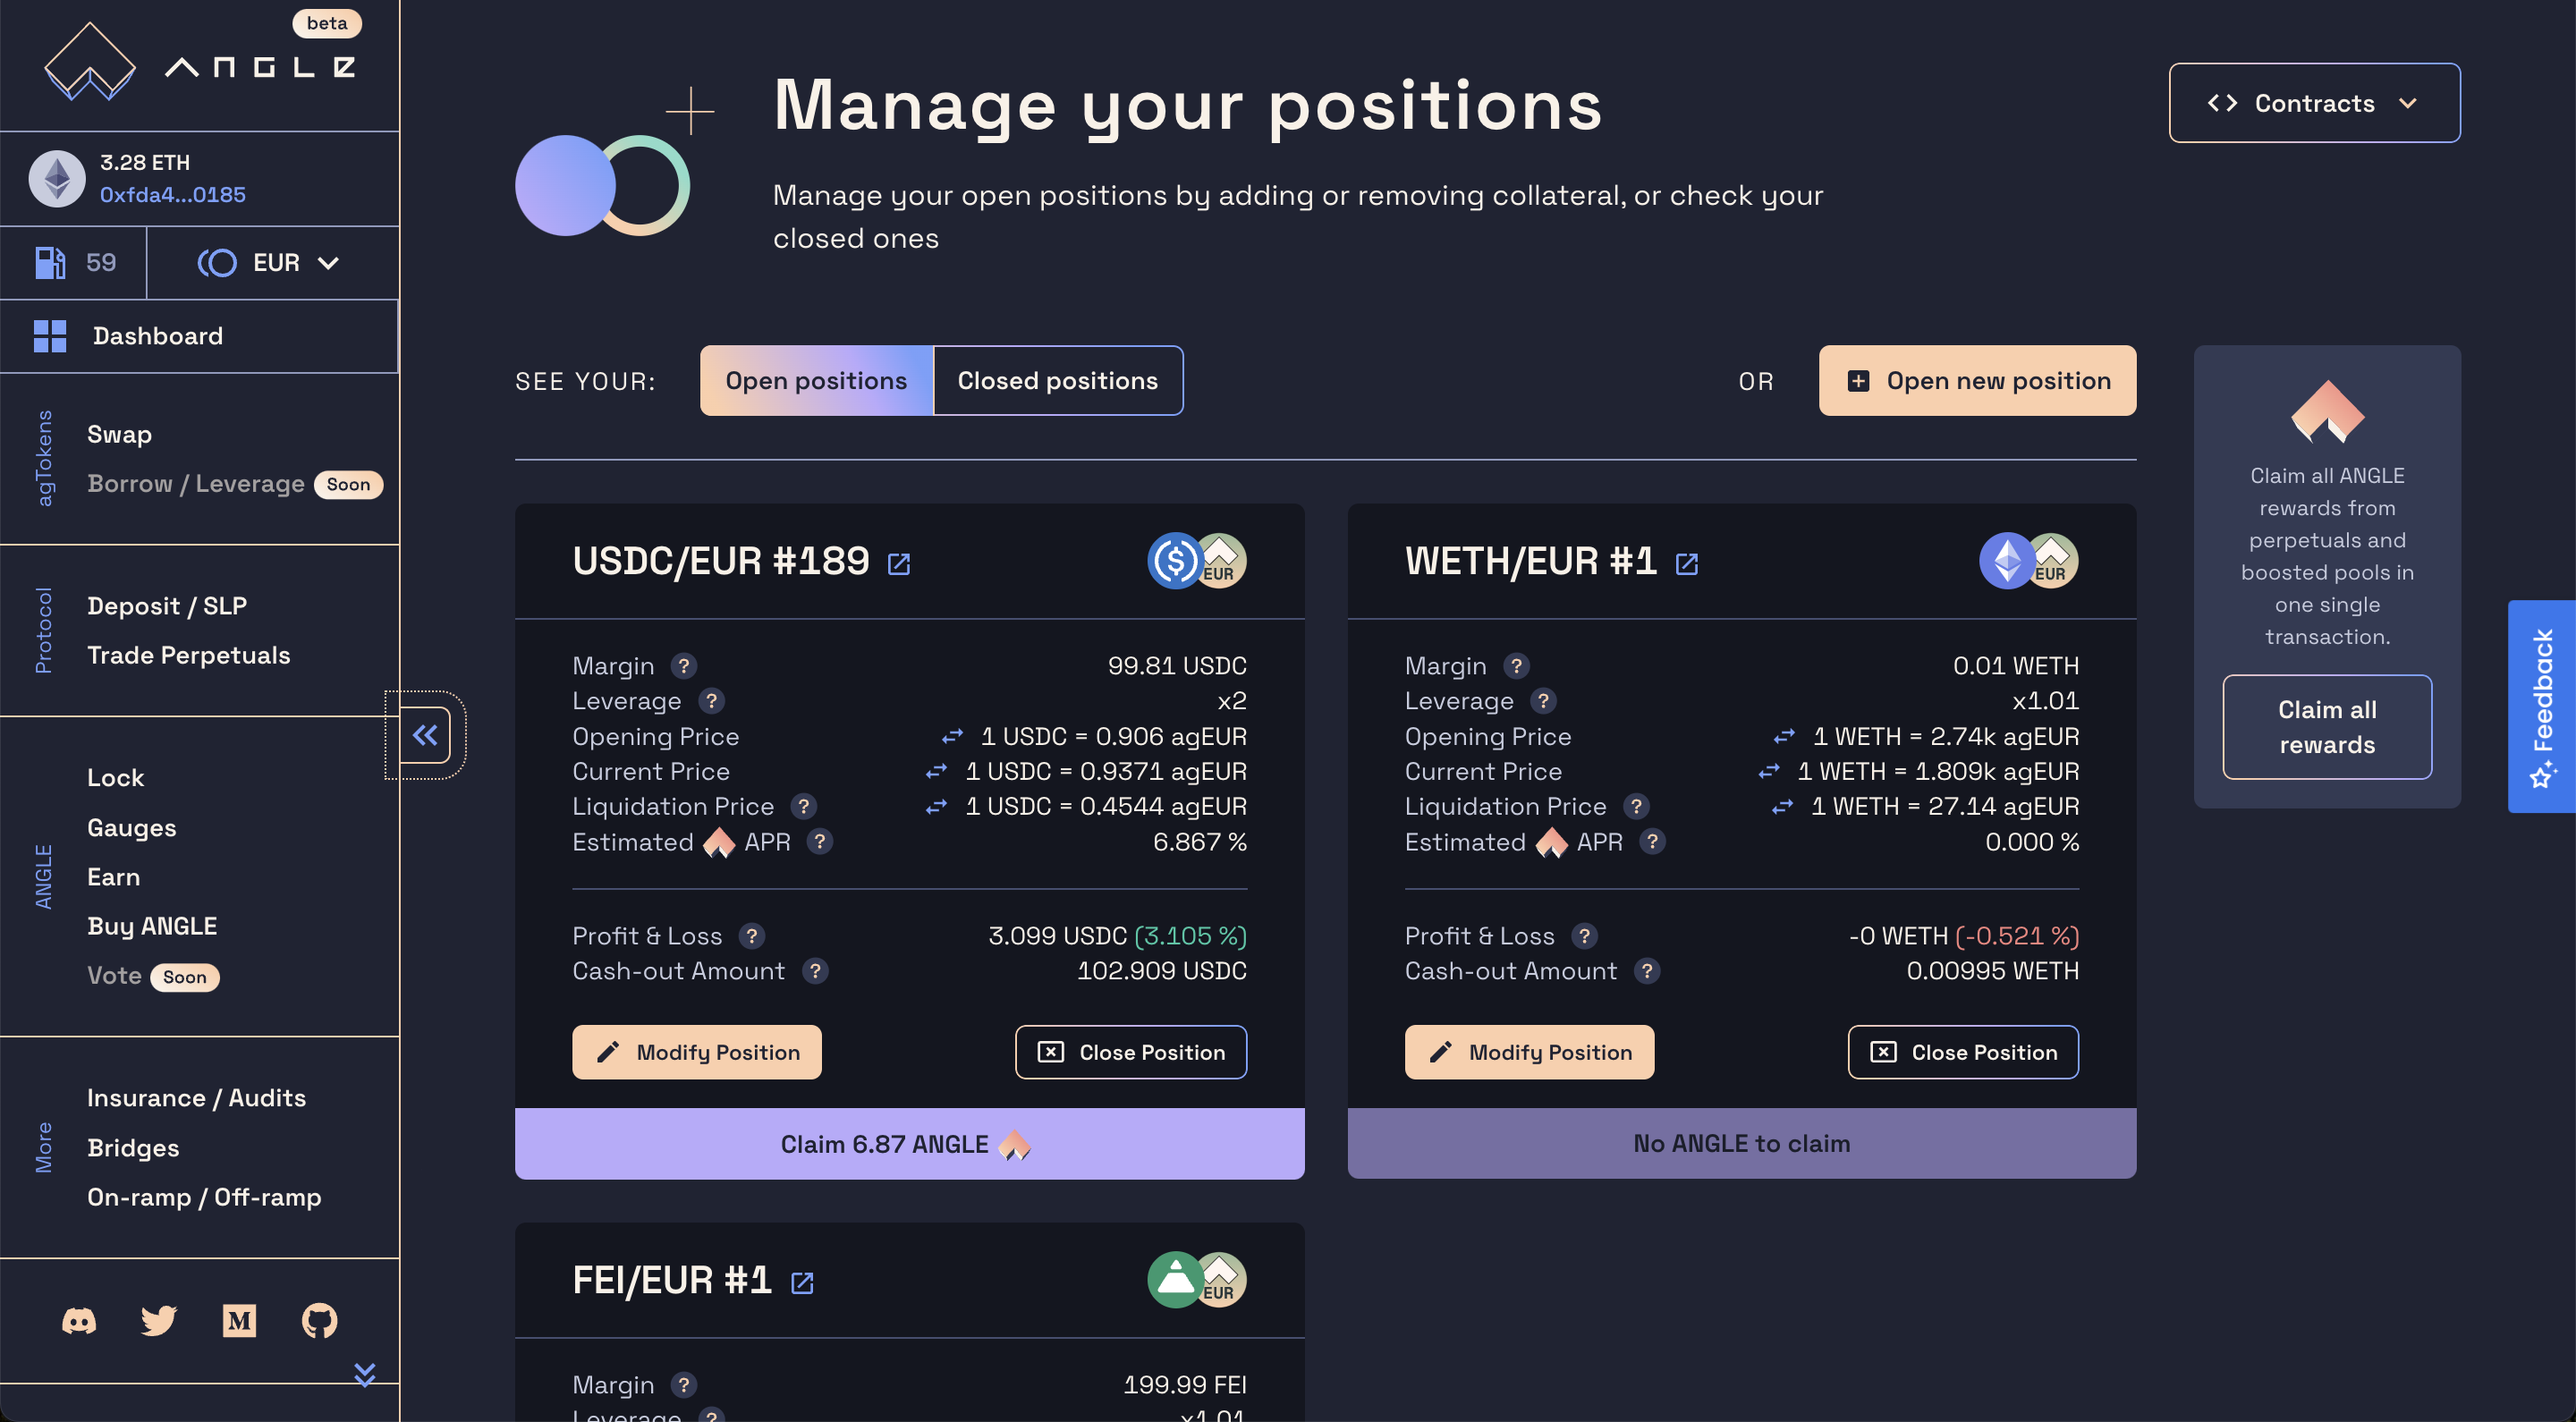
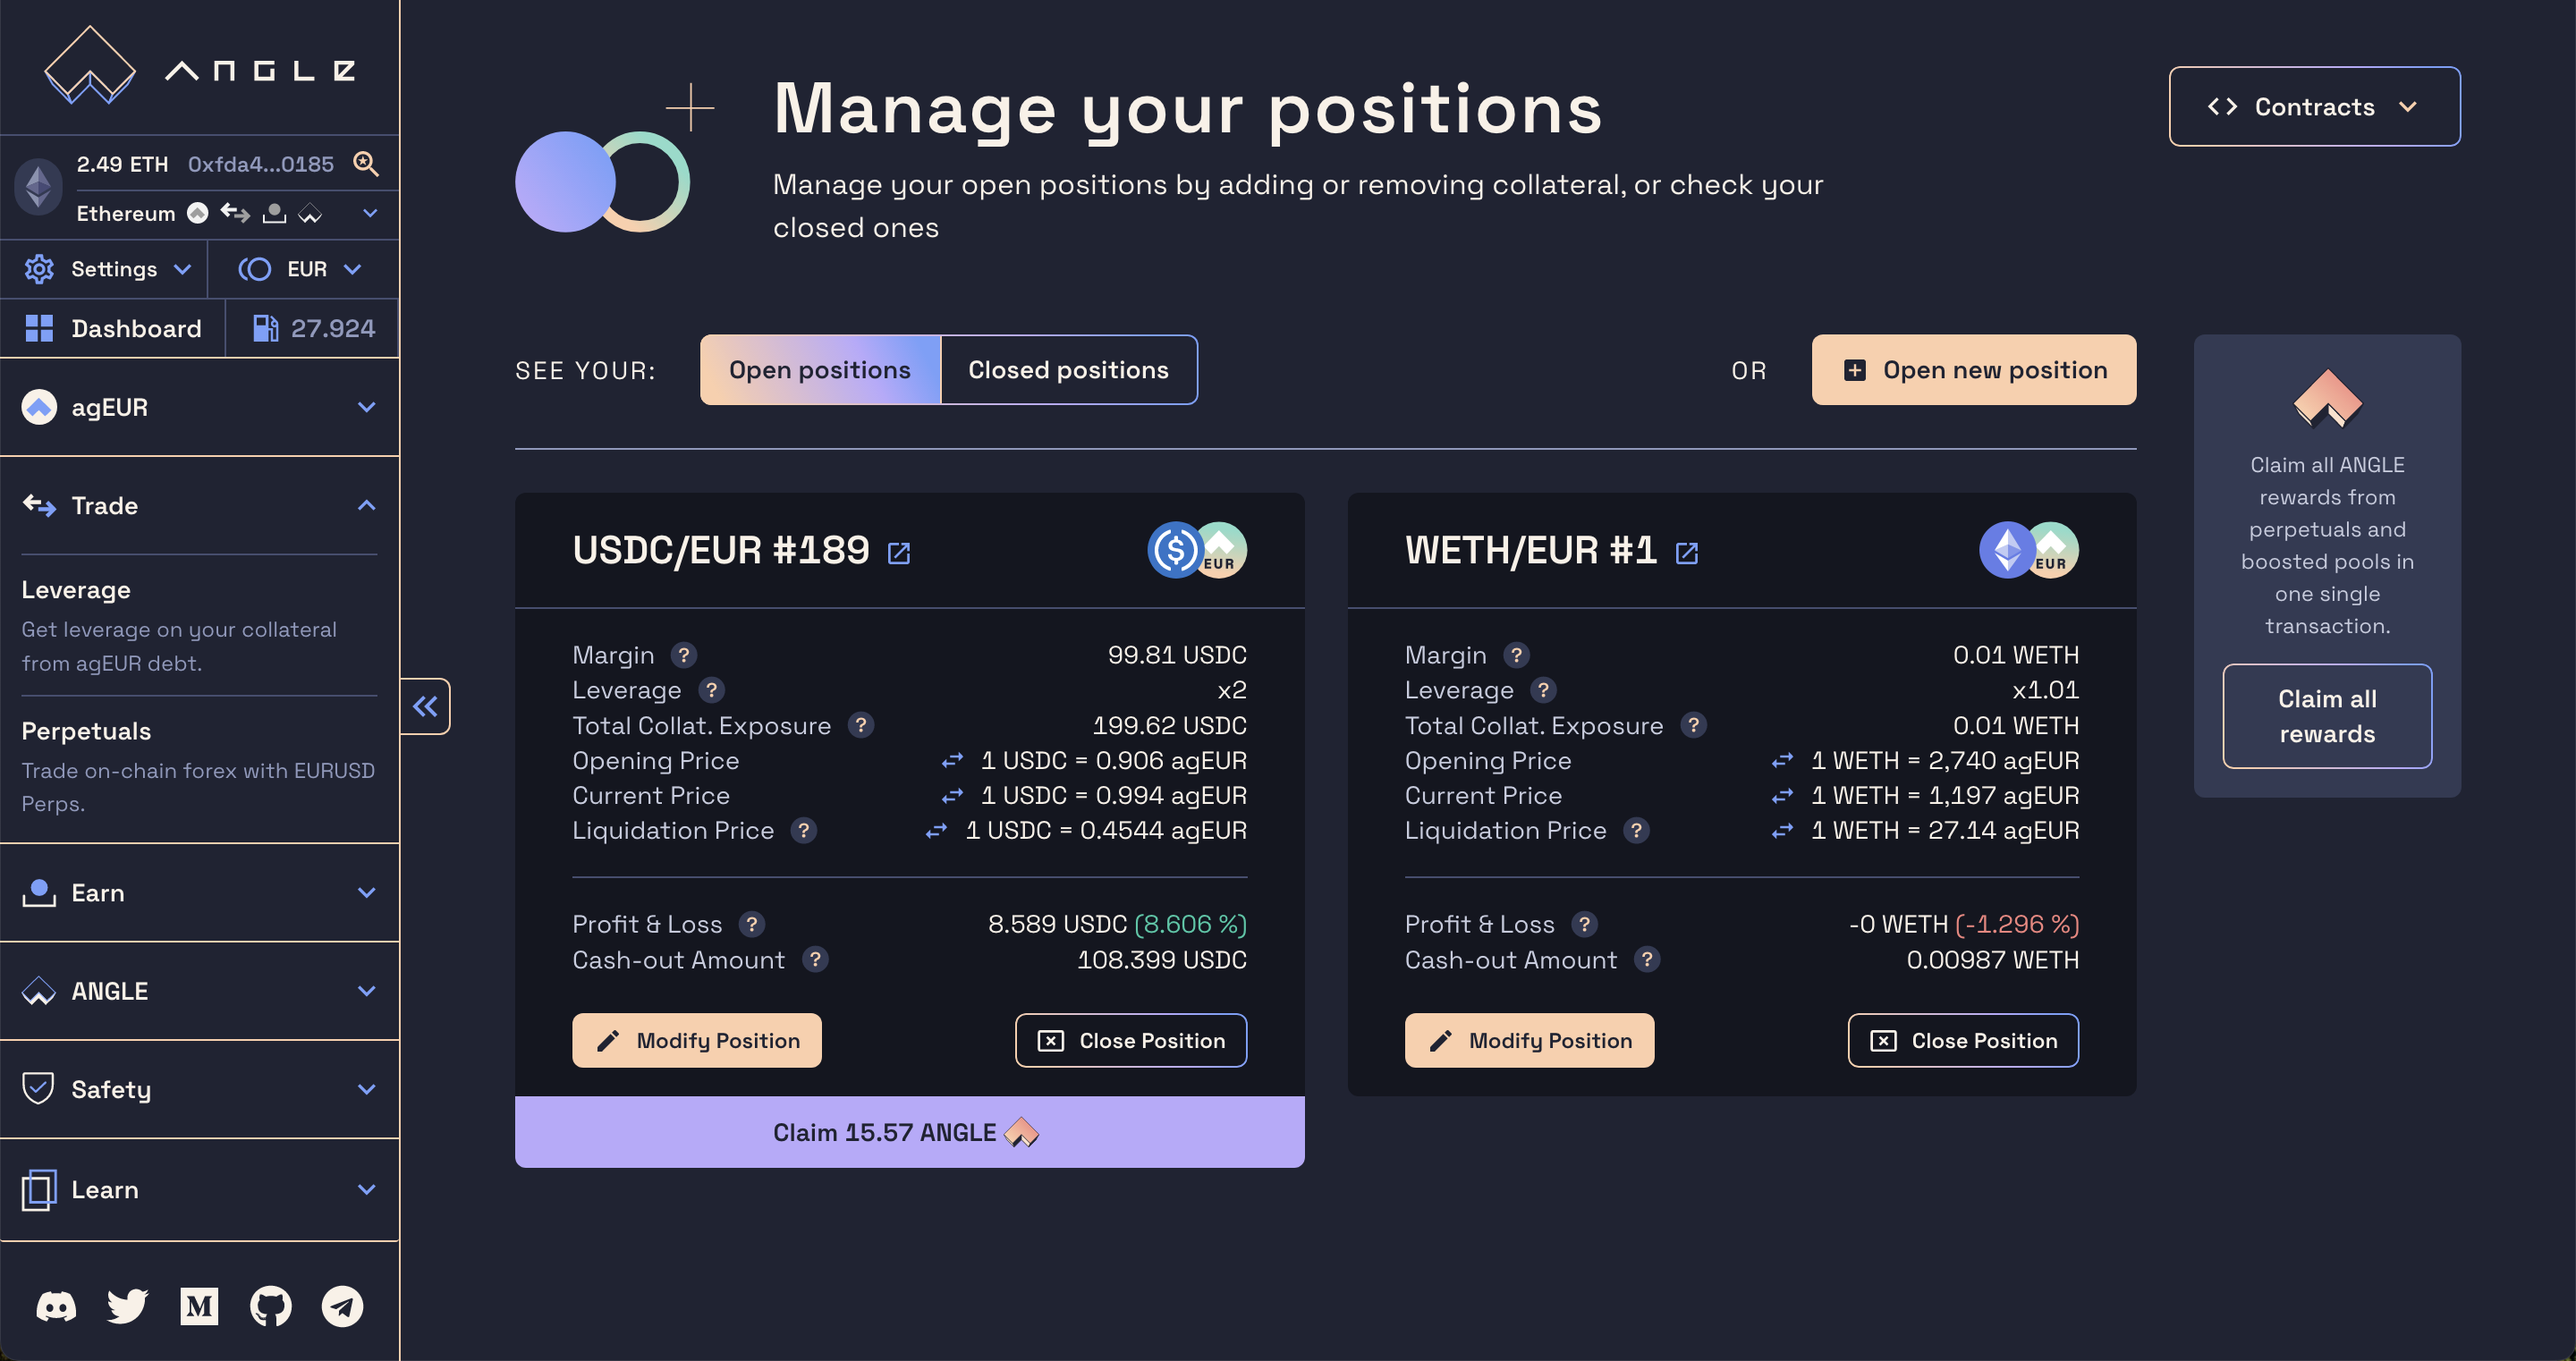
trade section

diff --git a/guides/app-guides/trade/perpetuals.md b/guides/app-guides/trade/perpetuals.md
@@ -1,0 +1,55 @@
+---
+description: How to open, modify or close perpetual positions on Angle App
+---
+
+# Opening & Managing Perpetuals
+
+Angle lets you open long collateral/stablecoin leverage perpetuals. This means that if the protocol's Core module accepts USDC as collateral, and can issue agEUR, users can open long USDC/agEUR perpetuals, betting that the USD will increase in value against the EUR.
+
+You can read more about this mechanism [here](/core-module/hedging-agents/README.md).
+
+All of this can be done directly from the [Perpetuals page](https://app.angle.money/#/perpetuals) of the Angle App.
+
+![Perpetuals page](/.gitbook/assets/perpetual-cards.png)
+
+## Opening a position
+
+1. To open a Perp on Angle, head to the [Perpetuals page](https://app.angle.money/#/perpetuals) of the app and select the collateral you want to long.
+2. Select the amount of collateral you want to send to the protocol as margin for your position. Perpetuals in Angle work similarly than isolated-margin exchanges, where margin is separated between positions.
+3. Choose your leverage. This will determine your position size that is to say the amount of underlying tokens you will be exposed to. Leverage in Angle is computed as $$\frac{\texttt{margin + position size}}{\texttt{margin}}$$
+4. The collateral/stablecoin exchange rate and transaction fees are displayed. Note that the net initial margin of your position will be your initial margin input minus fees. You'll also see the amount of ANGLE rewards you'll get with your position.
+5. If this is the first time opening a position on this collateral/stablecoin pair, you will need to approve your tokens with a transaction or a signature first.
+6. Once that is done, clicking the `Open perpetual` button will prompt you to confirm the transaction. The margin will be sent to the protocol and the leveraged position will be opened.
+
+For more advanced users, there is an expert mode which can be used to protect yourself against changing oracle or fees conditions in the environment.
+
+{% hint style="warning" %}
+Be careful when opening a perpetual, updating and closing is locked for an hour. More info [here](/guides/app-guides/app-faq.md).
+{% endhint %}
+
+In all cases, once your perp is open, you own a leveraged position, meaning you can make leveraged gains if the price of the collateral you are longing increases with respect to that of the asset the stablecoin is pegged to, and leveraged losses if the price decreases.
+
+![Perpetuals page](/.gitbook/assets/open-perpetual.png)
+
+## Updating a perpetual
+
+If you have open positions, you might want to add or remove margin to some of them to increase your leverage or protect yourself from a potential liquidation. There is no fee for updating the margin of a position.
+
+1. On the perpetuals page, click on the `Modify Position` button.
+2. Enter an amount of collateral to add or remove from your position, or change its leverage. You can remove collateral up to reaching the max leverage allowed for the pair of the position. This max leverage can vary from x10 to x100 depending on the pair.
+3. You will find current and updated info about your position.
+4. Then, just confirm the transaction and it will send/withdraw the amount of collateral that was specified.
+
+![Add USDC perp](/.gitbook/assets/add-usdc-perp.png)
+
+## Closing a position
+
+1. To close a position, simply click on the `Close Position` button of the positions you would like to close.
+2. You can check your position's opening and current prices, as well as the amount of collateral (the cash-out amount) and potential ANGLE rewards you are going to receive upon closing directly in the position card.
+3. Click on the `Close` button to confirm the transaction and receive your cash out amount (margin ± PnL) and potential ANGLE rewards.
+
+{% hint style="info" %}
+When closing a position, there is also an expert mode to protect for important slippage in price or fees.
+{% endhint %}
+
+![Close perp](/.gitbook/assets/close-perp.png)

diff --git a/guides/app-guides/trade/leverage.md b/guides/app-guides/trade/leverage.md
@@ -1,0 +1,49 @@
+---
+description: How to get leverage on crypto with Angle Borrowing module
+---
+
+# Get leverage on crypto through agEUR debt
+
+The [Angle Borrowing module](/borrowing-module/README.md) lets you borrow agEUR from crypto collateral **on different chains** and use it to **leverage your exposure to your collateral**.
+
+When borrowing agEUR, you can directly swap the borrowed agEUR into more of the token originally used as collateral to leverage your exposition in the same transaction. Follow this guide to learn how.
+
+## Add collateral & get leverage
+
+Here are the steps to leverage your collateral exposure:
+
+1. Select the collateral and amount you want to deposit.
+2. Select the additionnal exposure you want. Your leverage will be indicated on the bar below the `Additional Exposure` input.
+3. Confirm the transaction.
+
+In this example, a user deposits 1,000 OP tokens, and ask for 1,000 OP of additional exposure. What happens in the background is that enough agEUR to buy 1,000 OP tokens are borrowed from the vault and swapped to OP, increasing the user exposure from 1,000 to 2,000 OP.
+
+After the operation, this vault has 2,000 OP tokens as collateral and ~881 agEUR of debt.
+
+![Leverage with OP](/.gitbook/assets/leverage-OP.png)
+
+## Repay your debt or close your vault.
+
+Once a vault is created, you can repay part of your debt up to the dust amount, or close it completely. You can also withdraw some collateral up to the minimum LTV.
+
+When repaying your debt, you have two options: use your vault collateral, or use your debt token. If you choose to repay your debt with your vault collateral, the tokens will be swapped to debt tokens on your behalf and used to repay your debt.
+
+Here for example, wETH will be swapped into 1 agEUR to repay part of the vault's debt. 0.01 wETH of the vault's collateral will also be withdrawn.
+
+![Repay and withdraw](/.gitbook/assets/repay-with-collat.png)
+
+Here are the steps to Repay debt, withdraw collateral, or close your vault:
+
+1. Go to the `Leverage` section of the [Angle App](https://app.angle.money/#/leverage)
+2. Click on the `Repay` button on your vault.
+3. Tick the box above the inputs to repay all your debt and close your vault. You will get all the remaining collateral.
+4. Enter the amount of collateral you want to remove
+5. Enter the amount of stablecoins debt you want to repay in the second input.
+6. Choose whether to use your collateral or your agEUR wallet balance to repay your debt.
+7. Click on `Send` to confirm the transaction.
+
+## Monitoring your positions
+
+After opening vaults, you can monitor their health on the main Leverage page.
+
+![Vaults list](../../../.gitbook/assets/vaults-list.png)

diff --git a/guides/app-guides/agEUR/borrow.md b/guides/app-guides/agEUR/borrow.md
@@ -2,7 +2,7 @@
 description: How to borrow agEUR from the Angle App
 ---
 
-# Borrowing and Getting Leverage with agEUR
+# Borrowing agEUR
 
 The [Angle Borrowing module](/borrowing-module/README.md) lets you borrow agEUR from crypto collateral **on different chains**.
 
@@ -42,7 +42,7 @@ Once a vault is created, you can repay part of your debt up to the dust amount, 
 
 When repaying your debt, you have two options: use your vault collateral, or use your debt token. If you choose to repay your debt with your vault collateral, the tokens will be swapped to debt tokens on your behalf and used to repay your debt.
 
-For example here, the user is using his collateral (wETH) to repay 1,000 agEUR of debt, and removing 0.2 wETH from the vault.
+Here for example, wETH will be swapped into 1 agEUR to repay part of the vault's debt. 0.01 wETH of the vault's collateral will also be withdrawn.
 
 ![Repay and withdraw](/.gitbook/assets/repay-with-collat.png)
 
